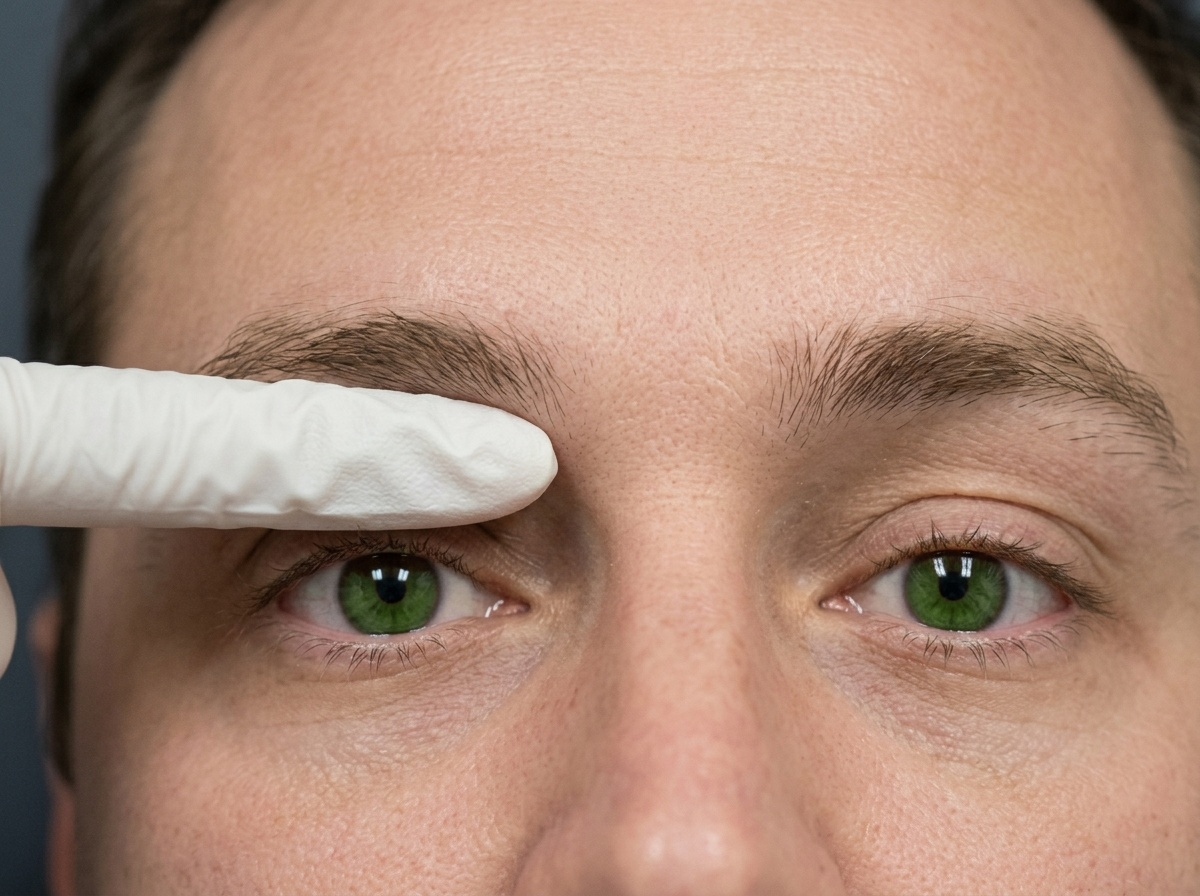
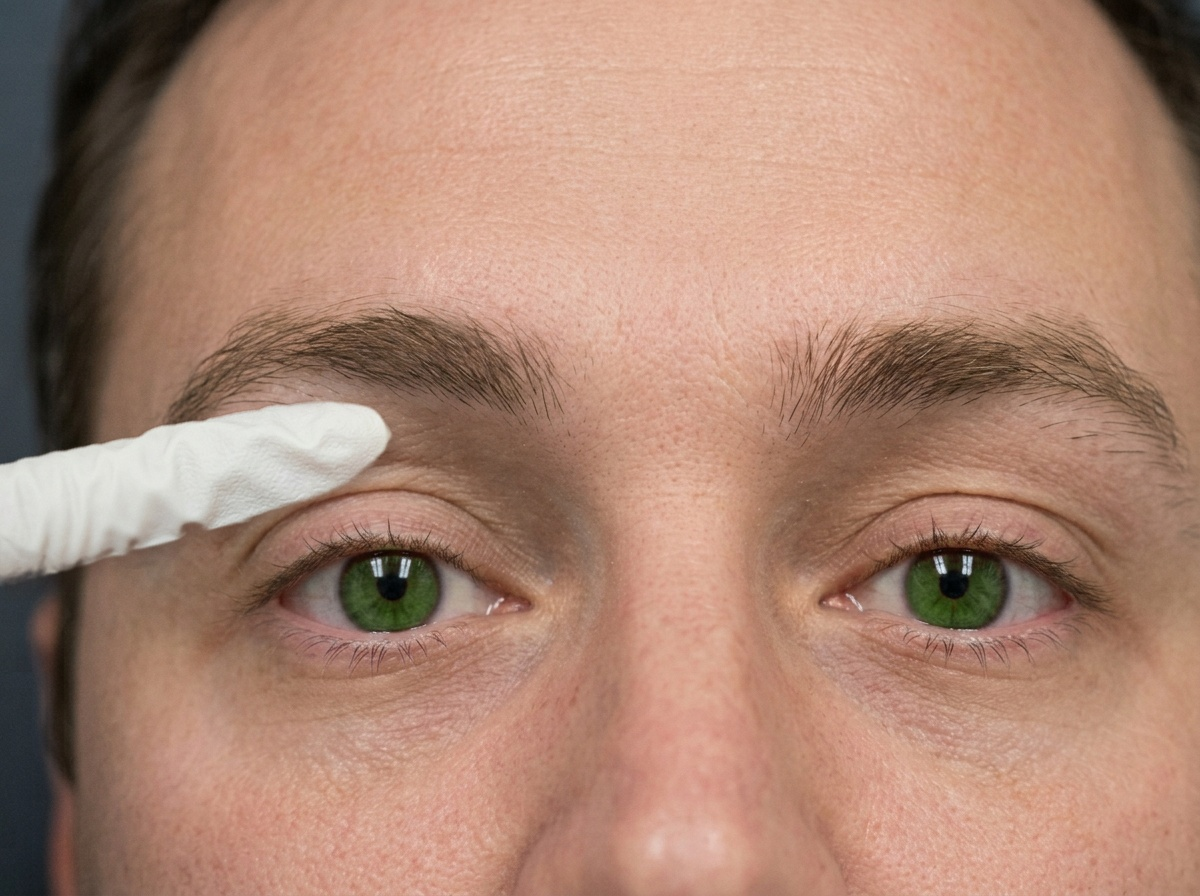
Supraorbital positioning: real glove finger placed in code with its tip at the notch (review draft)
Owner: the finger covered the eyebrow; wanted the fingertip pointing at the
notch, lower. Gemini removed the finger; place_finger.py cuts the
photographed finger from the first photo and lays it below the brow, tilted
up, tip at the rim under the notch, with a soft shadow. Eyes recoloured
green on the new face. 36 checks.

Claude-Session: https://claude.ai/code/session_01HGiSJjsUpkXLQfaRjSMvz9

diff --git a/visuals/supraorbital_patient_position/place_finger.py b/visuals/supraorbital_patient_position/place_finger.py
@@ -1,0 +1,50 @@
+"""Cut the photographed glove finger out of SRC and lay it on CLEAN at a new
+pose: scaled by S, rotated so its axis rises ANGLE degrees toward the tip,
+its tip at TIP (base px). Writes OUT and prints the finger outline (base px)."""
+import json, math, sys
+import numpy as np
+from PIL import Image, ImageDraw, ImageFilter
+
+src, clean, out = sys.argv[1:4]
+S, ANGLE = float(sys.argv[4]), float(sys.argv[5])
+TIP = (float(sys.argv[6]), float(sys.argv[7]))
+
+# Traced finger outline on SRC, base px (from the draw.py trace, mm -> base).
+mm = [(-90, -5.4), (-75, -5.1), (-52.8, -3.7), (-30.6, -2.0), (-19.4, -0.3), (-15.0, 1.9), (-13.1, 6.3),
+      (-14.4, 10.8), (-19.4, 12.1), (-41.7, 14.1), (-75, 13.8), (-90, 13.8)]
+poly = [((900 + 12 * x) * 0.75, (540 + 12 * y) * 0.75) for x, y in mm]
+src_tip = (poly[6][0] + 2, poly[6][1])               # front point of the fingertip
+src_angle = 3.0                                       # the painted finger rises ~3 deg to the tip
+
+im = Image.open(src).convert('RGB')
+W, H = im.size
+m = Image.new('L', (W, H), 0)
+ImageDraw.Draw(m).polygon([(x, y) for x, y in poly], fill=255)
+a = np.array(im.convert('HSV')).astype(np.float32) / 255
+glove = (np.clip((0.22 - a[..., 1]) / 0.08, 0, 1) * np.clip((a[..., 2] - 0.55) / 0.1, 0, 1) * 255).astype(np.uint8)
+mask = np.minimum(np.array(m.filter(ImageFilter.MaxFilter(9))), glove)
+mask = Image.fromarray(mask).filter(ImageFilter.MinFilter(3)).filter(ImageFilter.GaussianBlur(1.3))
+rgba = im.copy(); rgba.putalpha(mask)
+
+# Affine: new = R*S*(old - src_tip) + TIP; PIL wants the inverse map.
+th = math.radians(ANGLE - src_angle)                   # extra rise toward the tip (image y is down)
+c, s = math.cos(th), math.sin(th)
+def fwd(p):
+    dx, dy = p[0] - src_tip[0], p[1] - src_tip[1]
+    return (TIP[0] + S * (c * dx + s * dy), TIP[1] + S * (-s * dx + c * dy))
+# inverse
+ic, is_ = c / S, s / S
+inv = (ic, -is_, src_tip[0] - ic * TIP[0] + is_ * TIP[1],
+       is_, ic, src_tip[1] - is_ * TIP[0] - ic * TIP[1])
+placed = rgba.transform((W, H), Image.AFFINE, inv, resample=Image.BICUBIC)
+
+base = Image.open(clean).convert('RGB')
+alpha = placed.split()[3]
+shadow = alpha.filter(ImageFilter.GaussianBlur(9))
+shadow = Image.fromarray((np.array(shadow).astype(np.float32) * 0.38).astype(np.uint8))
+sh = Image.new('L', (W, H), 0); sh.paste(shadow, (5, 9))
+dark = Image.new('RGB', (W, H), (60, 38, 30))
+base = Image.composite(dark, base, sh)
+base.paste(placed.convert('RGB'), (0, 0), alpha)
+base.save(out, quality=95)
+print(json.dumps([[round(v, 1) for v in fwd(p)] for p in poly]))

diff --git a/visuals/supraorbital_patient_position/draw.py b/visuals/supraorbital_patient_position/draw.py
@@ -72,12 +72,10 @@ NOSE = [(-7, 4), (-6.6, 20), (-8.6, 40), (-10, 60), (10, 60), (8.6, 40), (6.6, 2
 FINGER = [(-90, 1.6), (-50, 2.4), (-30, 2.6), (-18, 3.0), (-13.6, 5.0), (-13.4, 9.0), (-17, 11.6), (-30, 12.4),
           (-50, 12.8), (-90, 13.6)]
 if BASE.exists():
-    # Traced on base.jpg (base px x 4/3 to canvas): a real index finger is
-    # about 17 mm wide, wider than the gap from brow to lashes, so lying on
-    # the rim it covers the lower half of the eyebrow, its pad on the rim and
-    # over the notch, as a finger palpating and guarding the rim would.
-    FINGER = [(-90, -5.4), (-75, -5.1), (-52.8, -3.7), (-30.6, -2.0), (-19.4, -0.3), (-15.0, 1.9), (-13.1, 6.3),
-              (-14.4, 10.8), (-19.4, 12.1), (-41.7, 14.1), (-75, 13.8), (-90, 13.8)]
+    # Placed in code (2026-10-14, owner: fingertip pointing right at the notch,
+    # below the brow): the photographed glove finger cut from the first photo,
+    # scaled 0.85 and tilted up 20 deg onto the finger-free repaint (place_finger.py).
+    FINGER = [(-90, 12.2), (-84.8, 8.7), (-66.4, 4.3), (-47.9, 0.2), (-38.4, -1.2), (-34.3, -0.5), (-31.6, 2.6), (-31.6, 6.6), (-35.3, 8.9), (-52.9, 16.1), (-80.1, 24.1), (-90, 27.8)]
 ENTRY = (-42.0, -12.0)                  # just above the eyebrow, lateral to the notch
 TIP = (-31.0, -7.0)                     # subcutaneous, over the notch, clear of it (the painted notch grooves the rim)
 REDIRECT_TIP = (-19.0, -5.0)            # same plane, medially to the supratrochlear point
